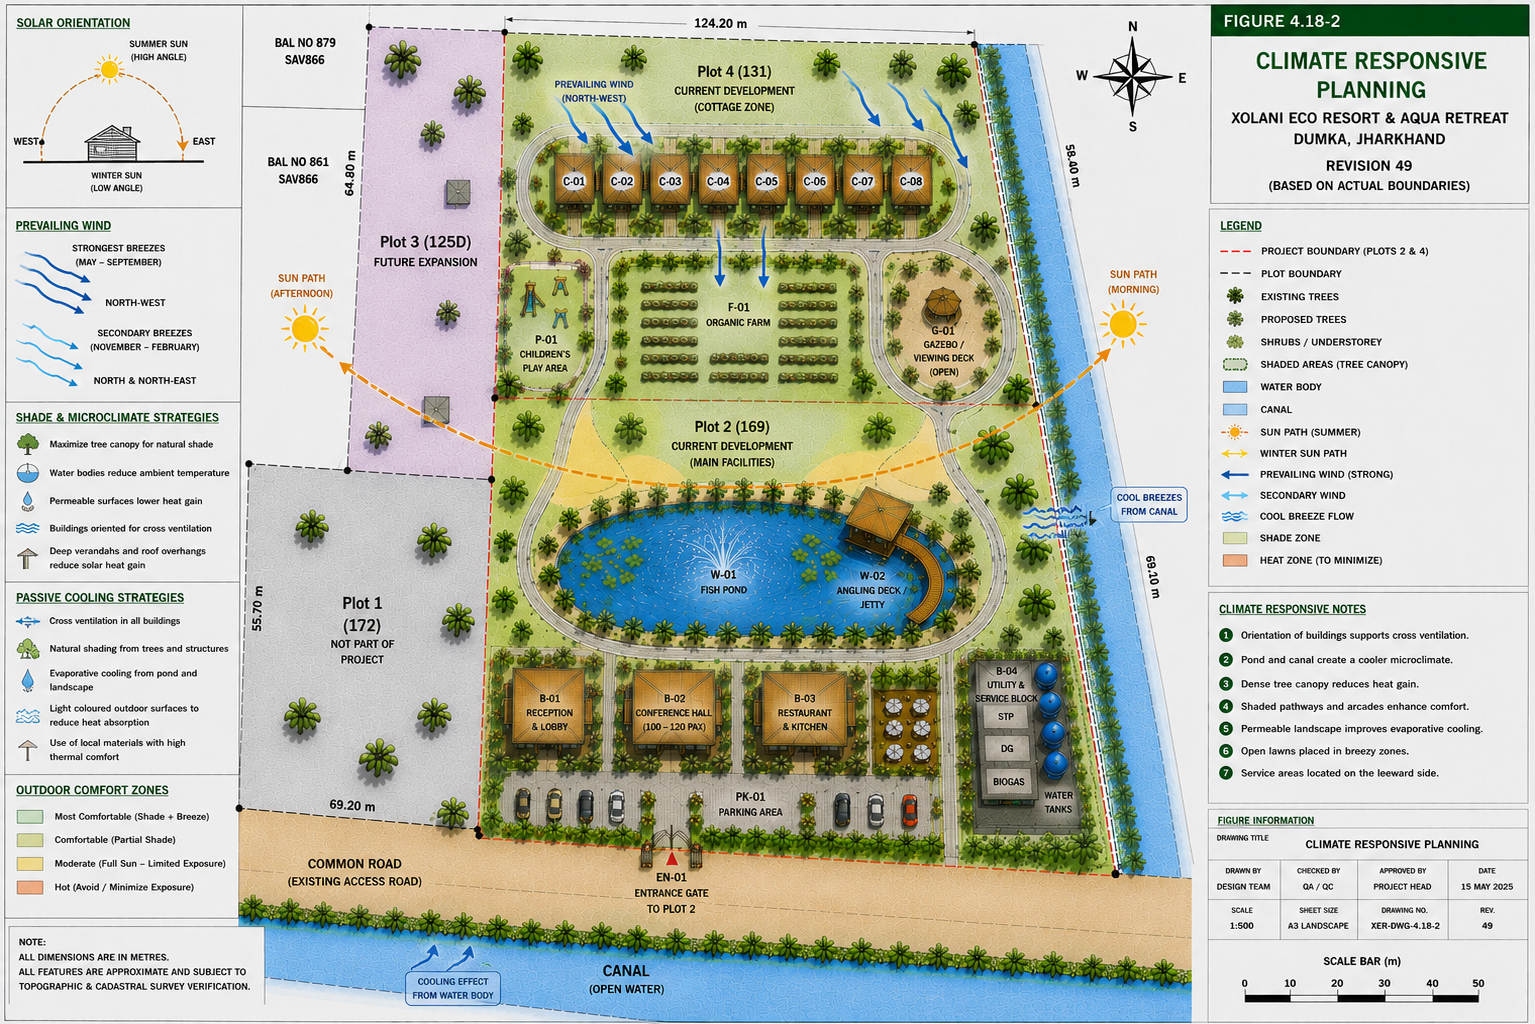
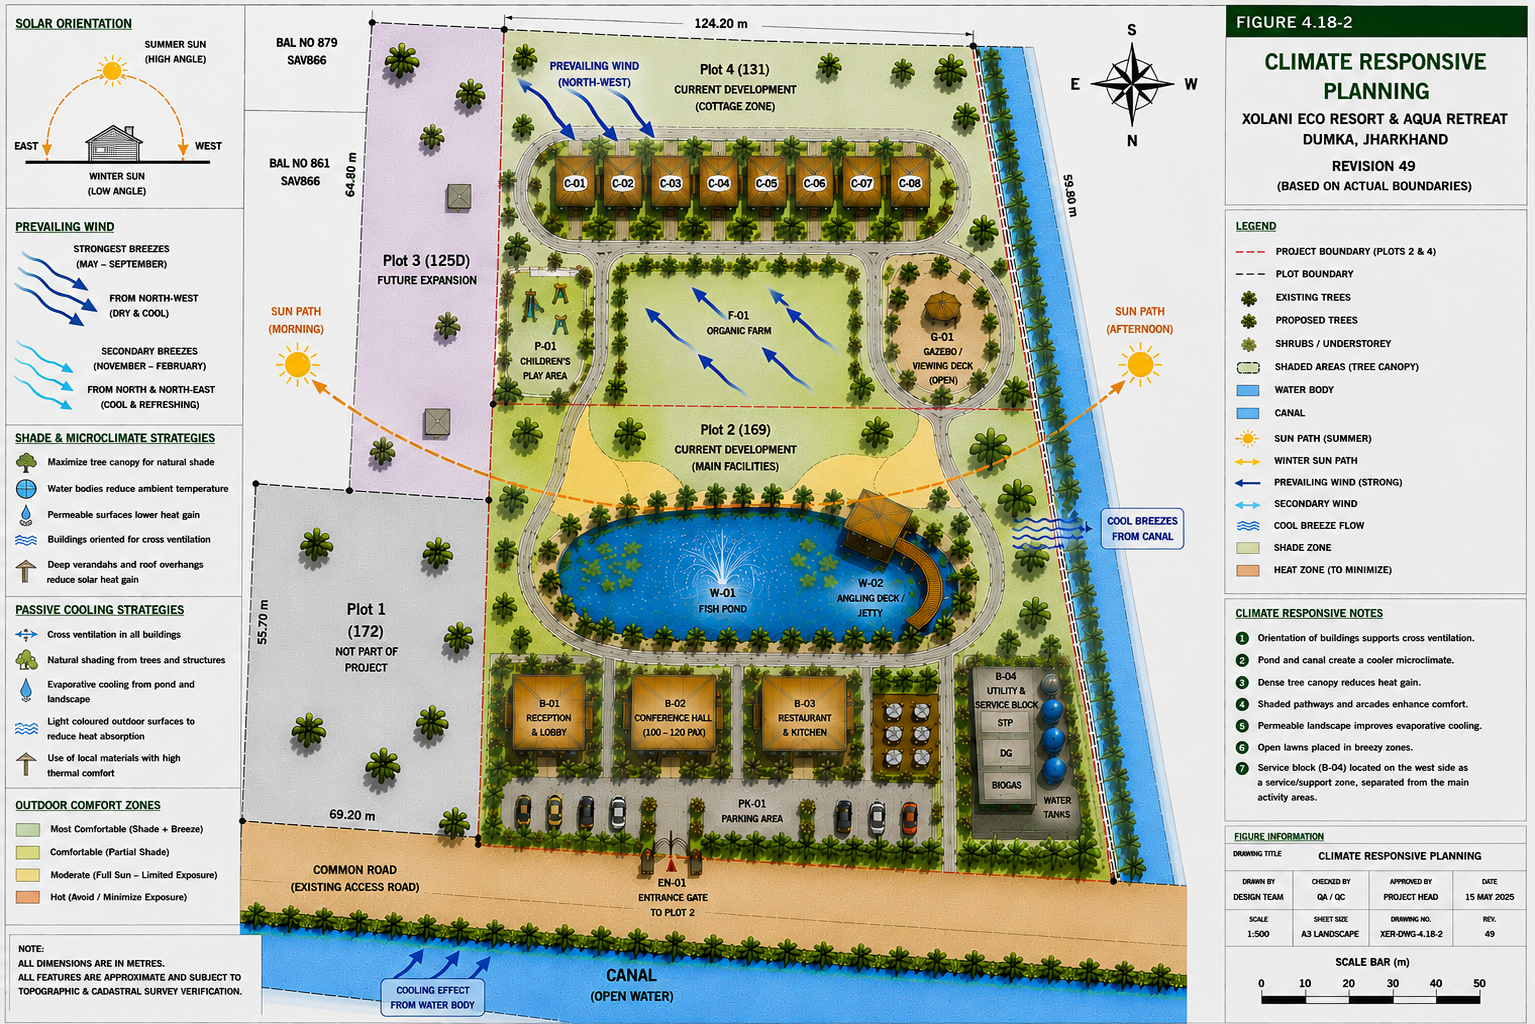
Approve AST-000025 Climate Responsive Planning and DAR-025

diff --git a/engineering/DAR/DAR-025/DAR-025_Drawing_Analysis_Report.md b/engineering/DAR/DAR-025/DAR-025_Drawing_Analysis_Report.md
@@ -1,0 +1,77 @@
+# DAR-025 - Drawing Analysis Report
+
+## Controlled Asset
+
+- Asset ID: AST-000025
+- Original Filename: ChatGPT Image Jul 17, 2026, 07_50_46 PM.png
+- Repository Path: drawings/Current/ChatGPT Image Jul 17, 2026, 07_50_46 PM.png
+- DAR Reference: DAR-025
+- Approved Drawing SHA256: 718dbbb17d81c56af4f3cd59126dcbdd3feaafe3abaaf6f95616229fdb1193f4
+
+## Drawing Identity
+
+- Figure: Figure 4.18-2
+- Title: CLIMATE RESPONSIVE PLANNING
+- Drawing Number: XER-DWG-4.18-2
+- Revision: 49
+- Date: 15 MAY 2025
+- Sheet: A3 Landscape
+- Scale: 1:500
+
+## Comparison Baseline
+
+AST-000018 through AST-000024 were used as approved
+project-orientation comparison baselines.
+
+The substantive Climate Responsive Planning analysis, site layout,
+boundaries, labels, colors, annotations, dimensions, title block,
+revision, scale and site content were retained.
+
+## Approved Controlled Corrections
+
+The following controlled corrections were approved:
+
+1. Compass corrected to the approved project orientation:
+   - North - down
+   - South - up
+   - East - left
+   - West - right
+
+2. Prevailing NW wind arrows corrected to the approved directional
+   relationship.
+
+3. Secondary N/NE wind arrows corrected to the approved directional
+   relationship.
+
+4. Solar orientation reconciled with the approved project orientation,
+   including East/West solar-path placement.
+
+5. B-04 climate note corrected under the approved Option A approach,
+   retaining the approved site layout and describing the actual
+   location/function of B-04.
+
+6. Final controlled visual repairs:
+   - stray compass mark removed;
+   - climate note 6 restored as:
+     "Open lawns placed in breezy zones.";
+   - two central prevailing-NW wind arrows corrected to point up-left.
+
+No full-sheet rotation was performed.
+
+No site-plan regeneration was performed.
+
+No other substantive drawing content was intentionally changed.
+
+## Approved Project Orientation
+
+- North - down
+- South - up
+- East - left
+- West - right
+
+## Approved Status
+
+APPROVED
+
+AST-000025 is controlled as the Climate Responsive Planning drawing,
+Figure 4.18-2.
